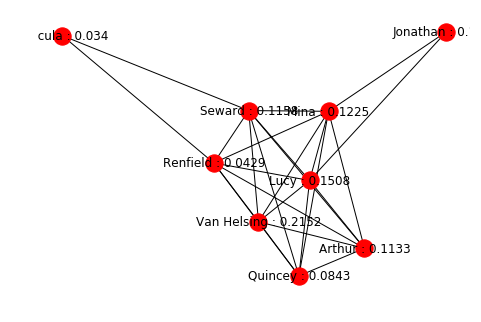
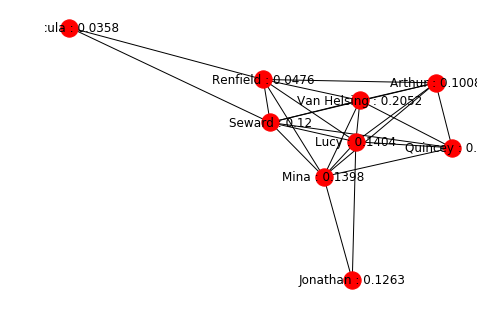
Reorganisation

diff --git a/graph.py b/graph.py
@@ -7,32 +7,34 @@
 #Eventually we could try using pagerank in order to see which characters are the most important ones (obciously dracula should be first here..)
 #############################################
 
-#DISCLAIMER : If you want the graph to be correct do not run the whole code. First run lines 1 to 139,
-#then for pagerank graph run lines 163 to the end, else both graph will be grouped in one which will duplicate nodes.  
+#DISCLAIMER : To run this part you can run the full script. Outputs a graph. charPR are the values for pagerank, results is the matrix of "adjacency"  
 
 
 filepath = "C:/Users/Lucien/Desktop/Dracula/dracula.txt"
 
 #Open file and divide into blocks
 ###########
+import nltk as nltk
+sentences = []
 
-nLines = 10 #Number of lines by block 
-blocks = [] #blocks of lines 
-counter = 0 #counter for lines 
-cacheBlock = "" #Cache for block 
-for line in open(filepath, 'r'):
-    if line != "\n":
-        #delete the \n, also add space between lines
-        line = [line[:-1]]
-        line = "".join(line)
-        cacheBlock = cacheBlock + " " + line
-        counter +=1
+with open(filepath, 'r') as myfile:
+    data=myfile.read().replace('\n', ' ')
 
-    if counter == nLines:
-        blocks.append(cacheBlock)
-        cacheBlock = ""
+sentences = nltk.tokenize.sent_tokenize(data)
+
+nSent = 15
+blocks = []
+temp = ""
+counter = 0
+for i in range(0, len(sentences)):
+    temp = temp + " " + sentences[i]
+    counter+=1
+    if counter == nSent:
         counter = 0
-blocks.append(cacheBlock)
+        blocks.append(temp)
+        temp = ""
+
+blocksOriginals = blocks.copy()
 
 #Now we are going to stem and remove punctuations, stopwords. 
 ###########
@@ -137,25 +139,6 @@ for block in blocksStemmed:
 ###########################
                 
 import networkx as nx
-#To determine if we have a relatio n between characters, we will arbitrarily define a treshold of 15 for graph relationship representations
-resultsTwo = np.array(results)
-for i in range(0, len(charsL)):
-    for j in range(0, len(charsL)):
-        if resultsTwo[i][j] < 15:
-            resultsTwo[i][j] = 0
-G = nx.from_numpy_matrix(resultsTwo)
-
-#Mapping labels
-labels = {}
-counter = 0
-for label in charsLabels:
-    labels[counter] = label
-    counter +=1
-H=nx.relabel_nodes(G,labels)
-
-
-nx.draw(H, with_labels = True)
-
 #Pagerank algorithm : some parts reused from my own work on the labs 
 # 1.2 #######################################
 #First is iterative method, then exact method
@@ -163,7 +146,7 @@ nx.draw(H, with_labels = True)
 resultsTwo = np.array(results)
 for i in range(0, len(charsL)):
     for j in range(0, len(charsL)):
-        if resultsTwo[i][j] < 7:
+        if resultsTwo[i][j] < 10:
             resultsTwo[i][j] = 0
 G = nx.from_numpy_matrix(resultsTwo)
 
@@ -262,9 +245,6 @@ for label in orderedPR:
 
 #Using graph with treshold for representation, much clearer 
 G = nx.from_numpy_matrix(resultsTwo)
-
-for node in G:
-    print(node)
     
 H=nx.relabel_nodes(G,labels)
 nx.draw(H, with_labels = True)
